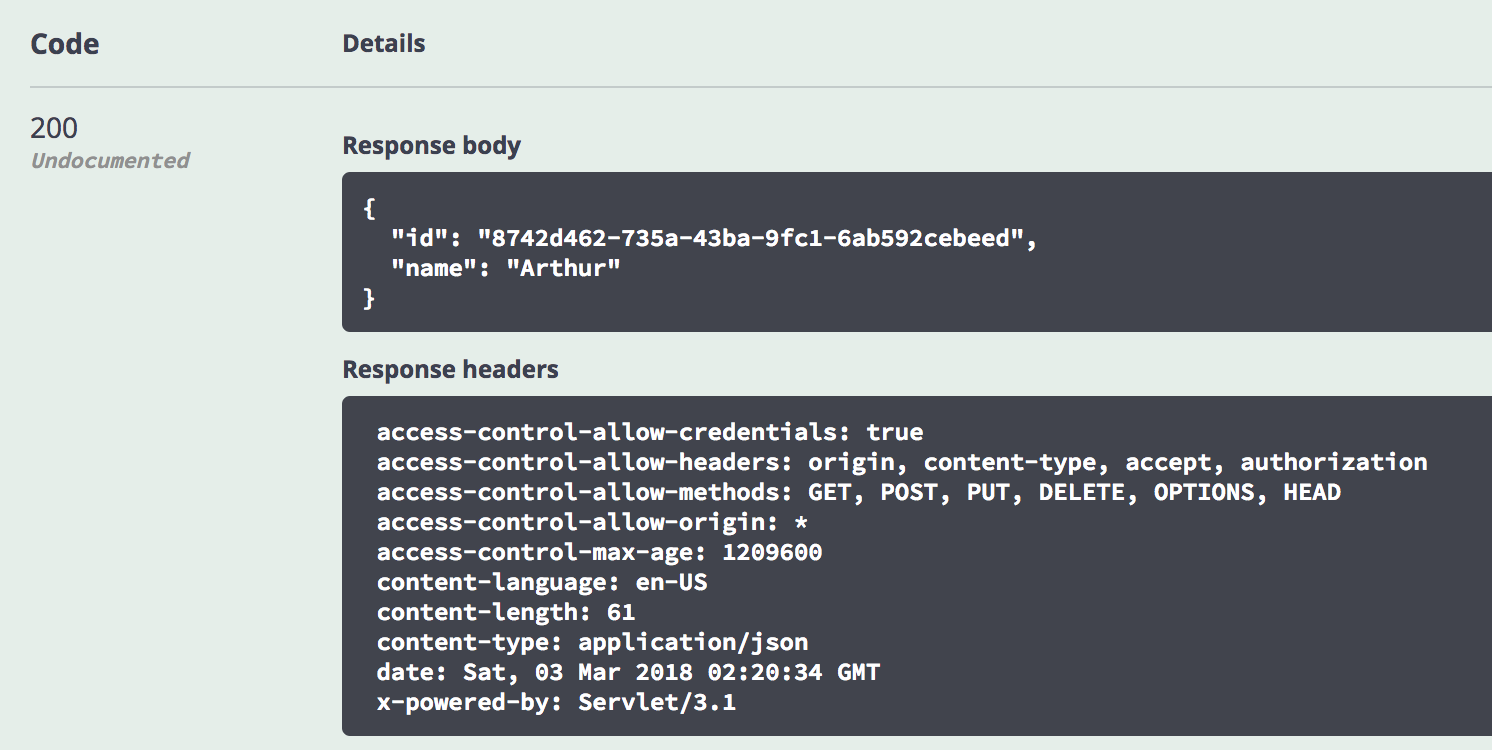
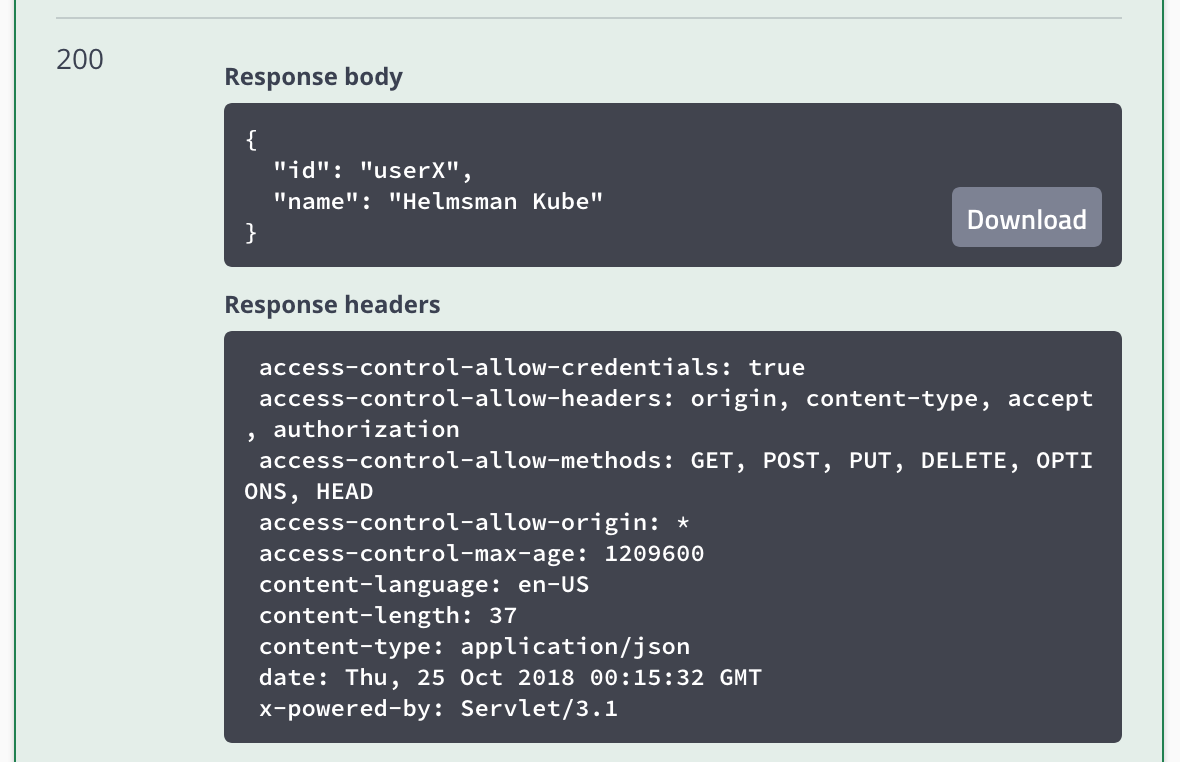
Updated lab for cascon 2018

diff --git a/README.md b/README.md
@@ -1,89 +1,316 @@
 ![Overview](images/top_diagram.png)
 
-# MicroProfile Lab with IBM Cloud Private and WebSphere Liberty
+# MicroProfile Lab with IBM Cloud Private and Open Liberty
 
-This lab illustrates steps to deploy a MicroProfile application, running in a WebSphere Liberty docker container, into a Kubernetes environment, such as [IBM Cloud Private](https://github.com/microservices-api/kubernetes-microprofile-lab#part-2-deploying-a-microprofile-application-in-an-ibm-cloud-private-cluster-icp), and [minikube (bonus)](https://github.com/microservices-api/kubernetes-microprofile-lab/tree/master/minikube).
+This lab illustrates steps to deploy a MicroProfile application, running in a Open Liberty Docker container, into a Kubernetes environment, such as [IBM Cloud Private](https://github.com/microservices-api/kubernetes-microprofile-lab#part-2-deploying-a-microprofile-application-in-an-ibm-cloud-private-cluster-icp), and [minikube (bonus)](https://github.com/microservices-api/kubernetes-microprofile-lab/tree/master/minikube).
 
 If you find an issue with the lab instruction you can [report it](https://github.com/microservices-api/kubernetes-microprofile-lab/issues) or better yet, [submit a PR](https://github.com/microservices-api/kubernetes-microprofile-lab/pulls).
 
-For questions/comments about WebSphere Liberty's docker container or IBM Cloud Private please email [Arthur De Magalhaes](mailto:arthurdm@ca.ibm.com).
+For questions/comments about Open Liberty's Docker container or IBM Cloud Private please email [Arthur De Magalhaes](mailto:arthurdm@ca.ibm.com).
 
 # Before you begin
 
 You'll need a few different artifacts to this lab.  Check if you have these installed by running:
 
 ```
-git --version
-mvn --version
-java -version
-docker --version
-helm version
-minikube version (bonus)
+git --help
+mvn --help
+java -help
+docker --help
+kubectl --help
+helm --help
+cloudctl --help
 ```
 
 If any of these is not installed:
-* Install a [Git client](https://git-scm.com/download/mac).
-* Install [Maven](https://maven.apache.org/download.cgi).
-* Install a [Docker engine](https://docs.docker.com/engine/installation/).
+
+* Install [Git client](https://git-scm.com/download/mac)
+* Install [Maven](https://maven.apache.org/download.cgi)
+* Install [Docker engine](https://docs.docker.com/engine/installation/)
 * Install [Java 8](https://java.com/en/download/)
-* Install [helm](https://docs.helm.sh/using_helm/#installing-helm)
-* Install [minikube](https://kubernetes.io/docs/tasks/tools/install-minikube/) (bonus)
+* Install [kubectl](https://www.ibm.com/support/knowledgecenter/SSBS6K_3.1.0/manage_cluster/cfc_cli.html)
+* Install [helm](https://www.ibm.com/support/knowledgecenter/SSBS6K_3.1.0/app_center/create_helm_cli.html)
+* Install [cloudctl](https://www.ibm.com/support/knowledgecenter/SSBS6K_3.1.0/manage_cluster/install_cli.html)
 
 This lab has been tested on Mac OSX (High Sierra), Ubuntu 16.04 and Windows 10, but it should work with any OS that supports the above software.
 
 # Deploying a MicroProfile application in an IBM Cloud Private cluster (ICP)
 
-This part of the lab will walk you through the deployment of our sample MicroProfile Application into an IBM Cloud Private cluster, which is built on the open source Kubernetes framework. you'll build a MicroProfile application and package it inside a WebSphere Liberty docker container. You will then utilize a helm chart that deploys the Liberty container in ICP, with the appropriate ingress and service setup, while also deploying and configuring a Cloudant helm chart that stands up the database that holds the data for this microservice.
+This part of the lab will walk you through the deployment of our sample MicroProfile Application into an IBM Cloud Private cluster, which is built on the open source Kubernetes framework. You'll build a MicroProfile application and package it inside a Open Liberty Docker container. You will then utilize a Helm chart that deploys the Liberty container in ICP, with the appropriate service setup, while also deploying and configuring a Cloudant Helm chart that stands up the database that holds the data for this microservice.
 
-## Setup a working environment with IBM Cloud Private (ICP)
+## Accessing your cluster from CLI
 
-1. You will be provided with a working ICP.
-1. The `helm` CLI in ICP is protected by TLS, so you need to follow [these instructions](https://www.ibm.com/support/knowledgecenter/en/SSBS6K_2.1.0.3/app_center/create_helm_cli.html) to setup a protected connected between your machine (client) and the ICP cluster you want to reach.
-1. Once the TLS certificates are in place, you can always go into `Configure client` to copy the commands necessary to configure your local CLI to target the ICP cluster:
-![ICP CLI](images/client_config.png)
-1. We will be using the private docker image registry from ICP, so you'll need to [setup the connection](https://www.ibm.com/support/knowledgecenter/en/SSBS6K_2.1.0.3/manage_images/configuring_docker_cli.html) so that you can login into that registry later in the lab.
+In this lab you will use a few command line interfaces (CLIs):
 
-# Part 1A: Build the application and docker container
+* `kubectl` is a powerful tool for running commands against any Kubernetes clusters including ICP.
+* `cloudctl` is a command line tool to interact with IBM Cloud Private.
 
-1. Clone the project into your machine by running `git clone https://github.com/microservices-api/kubernetes-microprofile-lab.git`
-1. Build the sample microservice by running `cd kubernetes-microprofile-lab/lab-artifacts` and then  `mvn clean package`
-1. Build and tag the docker image by using `docker build` and providing a tag that matches your `<cluster_CA_domain>/<namespace>/microservice-vote`.   As an example, if your `<cluster_CA_domain>` is `mycluster.icp` and you used the `default` namespace, then your command would be `docker build -t mycluster.icp:8500/default/microservice-vote`.
+To access your cluster using these tools, you need to log in to your cluster. Once you are logged in, a protected connection between your machine (client) and the ICP cluster you want to reach will be set up.
 
-# Part 1B: Upload the docker image to IBM Cloud Private's docker registry
+1. From desktop, open MATE Terminal.
+1. Log in to your cluster:
+    ```bash
+    cloudctl login -a https://mycluster.icp:8443 -c id-mycluster-account --skip-ssl-validation
+    ```
+    Your machine is setup to resolve `mycluster.icp` into the ip address of the master node of a shared ICP cluster.
+1. Enter the credentials provided to you.
+1. Pick the namespace that is same as your username.
+1. Once you are successfully logged in, you should see the following message:
+    ```bash
+    Configuring kubectl ...
+    Property "clusters.mycluster" unset.
+    Property "users.mycluster-user" unset.
+    Property "contexts.mycluster-context" unset.
+    Cluster "mycluster" set.
+    User "mycluster-user" set.
+    Context "mycluster-context" created.
+    Switched to context "mycluster-context".
+    OK
 
-We will use IBM Cloud Private's internal docker registry to host our docker image.  This allows our image to remain secured on-premises, while being available to your enterprise.  You can control which kubernetes namespace they are available under.
+    Configuring helm: /home/student/.helm
+    OK
+    ```
+1. You can now explore `kubectl` and `cloudctl` CLIs.
+1. Run the following commands to get familiar with these tools:
+    1. `kubectl version`: Print the client and server version information.
+    1. `kubectl cluster-info`: Display cluster info.
+    1. `kubectl config view`: Display merged kubeconfig settings.
+    1. `kubectl help`: Get help!
+    1. `cloudctl version`: Check CLI and API version information.
+    1. `cloudctl cm nodes`: List of all nodes in the cluster.
+    1. `cloudctl cm masters`: List of all master nodes.
+    1. `cloudctl cm master-get <MASTER_NODE_ID>`: View the details about a master node.
+    1. `cloudctl catalog charts`: List of Helm charts in the cluster helm repositories. Soon, you'll learn about Helm charts!
+    1. `cloudctl help`: Get help!
+1. Congratulations!
 
-1. Follow the instruction on [this page](https://www.ibm.com/support/knowledgecenter/en/SSBS6K_2.1.0.3/manage_images/using_docker_cli.html) to `docker login` into the ICP docker registry.  Use the credentials you setup during installation (default is `admin/admin`).
-1. Now that you're logged in the registry, you can `docker push` your tagged image (`microservice-vote`) into the ICP docker registry.  Example:  `docker push mycluster.icp:8500/default/microservice-vote`
-1. Your image is now available in the ICP registry, which you can verify by going into `Catalog -> Images`.   
-![Images Repository](images/images_repo.png)
+## Accessing your IBM Cloud Private cluster by using the management console
 
-# Part 2: Deploy WebSphere Liberty and Cloudant helm chart
+You can access your IBM Cloud Private cluster management console from a web browser.
 
-1. Deploy the microservice with the following helm install command `helm install --name=vote helm-chart/microservice-vote --set image.repository=mycluster.icp:8500/default/microservice-vote`.
-1. You can view the status of your deployment by running `kubectl get deployments`.  You want to wait until both `microservice-vote-deployment` and `vote-ibm-cloudant-dev` deployments are available.
-1. Let's check on our deployment.  Go into `Workloads -> Deployments` and click on the release name you picked.  Click on the `Endpoint` link, which brings up the ingress URL.   Add `/openapi/ui` to the URL to reach the OpenAPI User Interface.   For example, `https://192.168.99.100/openapi/ui`.
-1. Congratulations, you have successfully deployed a [MicroProfile](http://microprofile.io/) container into a kubernetes cluster!  The deployment also included a Cloudant container that is used by our microservice, and an ingress layer to provide connectivity into the API.
+1. From a web browser, browse to the URL for your cluster. The URL is `https://mycluster.icp:8443`.
+1. Enter the credentials provided to you.
+1. From the top horizontal menu bar, click Catalog.
+1. The Catalog provides a centralized location from which you can browse for and install Helm charts in your cluster. A chart consists of templates for a set of resources necessary to run an application and includes a values file that configures the resources.
+1. From the top left main Menu, click on **Workloads** and then **Helm Releases**.
+1. You can see the list of all Helm releases deployed into the cluster. Many of the deployments are internal resources required by ICP itself.
+
+# Part 1A: Build the application and Docker container
+
+## Vote Microservice
+
+The vote microservice stores feedback from the sessions and displays how well all sessions were liked in a pie chart.  If the vote service is configured (via server.xml) to connect to a CouchDB database, the votes will be persisted.  Otherwise, the vote data will simply be stored in-memory. This sample application is one of the MicroProfile [showcase](https://github.com/eclipse/microprofile-conference/tree/master/microservice-vote) applications.
+
+You can clone the lab artifacts and explore the application:
+
+1. Clone the project into your machine:
+    ```bash
+    git clone https://github.com/microservices-api/kubernetes-microprofile-lab.git
+    ```
+1. Navigate into the sample application directory:
+    ```bash
+    cd kubernetes-microprofile-lab/lab-artifacts
+    ```
+1. See if you can find where technologies described below are used in the application.
+
+### Usage of technologies
+
+* **JAX-RS** is used to to define the endpoints for the application, and performs JSON data binding on incoming and outgoing JSON data so that the rest of the code can utilize the data as POJOs.
+
+* **CDI** is used to instantiate data access objects (DAO's) and manage invocation of life cycle operations such as `@PostConstricut`.
+
+* **JSON-P** is used to implement custom JAX-RS MessageBodyReader/Writer classes for binding between JSON and POJO.
+
+* **MicroProfile Config** is used to inject CouchDB's URL, username and password to the application.
+
+* **MicroProfile Fault-Tolerance** is used in the CouchAttendeeDAO and CouchSessionRatingDAO to:
+
+  * impose timeouts on various operations using `@Timeout`.
+  * automatically retry failed operations using `@Retry`.
+  * limit the maximum resources allocated to parallel operations using `@Bulkhead`.
+
+* **MicroProfile Health** is used to provide an UP/DOWN health check of the service.  The following health checks are implemented:
+
+  * HashMapDAO to determine if the in-memory storage is accessible (which is always) and gives an example of an UP status.
+  * CouchAttendeeDAO to determine if it can connect to the CouchDB backend.
+  * CouchSessionDAO to determine if it can connect to the CouchDB backend.
+
+* **CouchDB** is a NoSQL database.  It's not part of MicroProfile, but is used here to persist vote information
+
+* **MicroProfile Metrics** is used to gather metrics about the time it takes the HashMapDAO objects to complete their operations, and to keep a count of the amount of times each REST endpoint is requested.
+
+## Dockerizing Vote Microservice
+
+By now you should have a general understanding about the applications. Now you will see how you can package the sample application into a Docker container.
+
+The application is packaged as a Docker image, using a Dockerfile that contains instructions on how the image is built.
+
+**Dockerfile**
+
+```docker
+FROM open-liberty:microProfile1
+COPY server.xml /config/server.xml
+COPY target/microservice-vote-1.0.0-SNAPSHOT.war /config/apps/vote.war
+```
+
+This Dockerfile describes that our container is built on top of `open-liberty:microProfile1` Docker image and includes our applications along with the server.xml needed to run the app.
+
+The following steps will build the sample application and create a docker image that includes the vote microservice:
+
+1. Clone the project into your machine. You can skip this step if you have already cloned the repository.
+    ```bash
+    git clone https://github.com/microservices-api/kubernetes-microprofile-lab.git
+    ```
+1. Navigate into the sample application directory:
+    ```bash
+    cd kubernetes-microprofile-lab/lab-artifacts
+    ```
+1. Build the sample application:
+    ```bash
+    mvn clean package
+    ```
+1. Build and tag the Docker image:
+    ```bash
+    docker build -t mycluster.icp:8500/<NAMESPACE>/microservice-vote .
+    ```
+    Replace `<NAMESPACE>` with your username. As an example:
+    ```bash
+    docker build -t mycluster.icp:8500/userX/microservice-vote .
+    ```
+1. You can use the Docker CLI to verify that your image is built:
+    ```bash
+    docker images
+    ```
+
+# Part 1B: Upload the Docker image to IBM Cloud Private's Docker registry
+
+We will use IBM Cloud Private's internal Docker registry to host our image.  This allows our image to remain secured on-premises, while being available to your enterprise.  You can control which Kubernetes namespace they are available under.
+
+1. Log in to your private image registry using the provided credentials:
+    ```bash
+    docker login mycluster.icp:8500
+    ```
+1. Now that you're logged in the registry, you can `docker push` your tagged image (`microservice-vote`) into the ICP Docker registry:
+    ```bash
+    docker push mycluster.icp:8500/<NAMESPACE>/microservice-vote
+    ```
+1. Your image is now available in the Docker registry in ICP. You can verify this through the management console: `Console -> Container Images`.
+
+    ![Images Repository](images/images_repo.png)
+
+# Part 2: Deploy Open Liberty and Cloudant Helm charts
+
+You can use ICP Dashboard to deploy Helm charts into your Kubernetes cluster through the Catalog page. In addition, you can use Helm command line tool to install a Helm chart which we will do in this part of the lab.
+
+First, let's see what are Helm charts. Helm is a package manager for Kubernetes (analogous to yum and apt). You can use it for managing Kubernetes charts (analogous to debs and rpms), which are packages of pre-configured Kubernetes resources. Instead of running a bunch of commands or maintaining multiple configuration files to create Kubernetes resources, Helm packages all the resources required to successfully run a service or multiple dependent services in one chart.
+
+Now let's deploy our workload using Helm charts:
+
+1. Deploy the microservice using Helm:
+    ```bash
+    helm install --name=vote-<USERNAME> helm-chart/microservice-vote --set image.repository=mycluster.icp:8500/<NAMESPACE>/microservice-vote --tls
+    ```
+1. You can view the status of your deployment:
+    ```bash
+    kubectl get deployments
+    ```
+    You want to wait until both `microservice-vote-deployment` and `vote-<NAMESPACE>-ibm-cloudant-dev` deployments are available.
+1. Let's check on our deployment in the ICP dashboard. From the management console, go into `Workloads -> Deployments`.
+1. Click on the Namespace menu on the top right of the page.
+1. Select the namespace that is same as your username.
+1. You should see two deployments: `microservice-vote-deployment` and `vote-<NAMESPACE>-ibm-cloudant-dev`
+1. Feel free to click on any of the deployments and see details about each deployments.
+1. Now lets see what Kubernetes resources this Helm chart created in addition to Deployment resources. From the management console, go into `Workloads -> Helm Releases`.
+1. Click on your Helm release name. You can use the search box to find it.
+1. Release page shows all the Kubernetes resources create on the cluster.
+1. See that there are two resources created under **Service**.
+1. Click on `microservice-vote-service`. This would take to to another page.
+1. You should see two links for **Node port**, `http` and `https`. Click on either link.
+1. You should see the Open Liberty Welcome Page.
+1. Add `/openapi/ui` to the URL to reach the OpenAPI User Interface. For example, `https://<IP>:<PORT>/openapi/ui`.
+1. Congratulations! You have successfully deployed a [MicroProfile](http://microprofile.io/) container into a Kubernetes cluster!
 
 # Part 3: Explore the application
 
-The `vote` application is using various MicroProfile specifications.  The `/openapi` endpoint of the application exposes the [MicroProfile OpenAPI](http://download.eclipse.org/microprofile/microprofile-open-api-1.0.1/microprofile-openapi-spec.html) specification.  The `/openapi/ui` endpoint is a value-add from [Open Liberty](https://openliberty.io/), which WebSphere Liberty is based upon.  This UI allows developers and API consumers to invoke the API right from the browser!
+The `vote` application is using various MicroProfile specifications.  The `/openapi` endpoint of the application exposes the [MicroProfile OpenAPI](http://download.eclipse.org/microprofile/microprofile-open-api-1.0.1/microprofile-openapi-spec.html) specification.  The `/openapi/ui` endpoint is a value-add from [Open Liberty](https://openliberty.io/).  This UI allows developers and API consumers to invoke the API right from the browser!
 
 1. Expand the `POST /attendee` endpoint and click the `Try it out` button.
-1. Leave the `id` empty, and place your name in the `name` field.
-![image](images/post_screenshot.png)
-1. Click on the `execute` button.  Scroll down and you'll see the `curl` command that was used, the `Requested URL` and then details of the response.  Copy the `id` from the `Response body`.  This entry has now been saved into the Cloudant database that our microservice is using.
-![image](images/post_result.png) 
+1. Place your username (e.g. userX) in the `id` field, and place your name in the `name` field.
+    ![image](images/post_screenshot.png)
+1. Click on the `Execute` button.  Scroll down and you'll see the `curl` command that was used, the `Requested URL` and then details of the response.  Copy the `id` from the `Response body`.  This entry has now been saved into the Cloudant database that our microservice is using.
+    ![image](images/post_result.png)
 1. Now expand the `GET /attendee/{id}`, click the `Try it out` button, and paste into the textbox the `id` you copied from the previous step.
-1. Click on `execute` and inspect that the `Respond body` contains the same name that you created 2 steps ago. You successfully triggered a fetch from our WebSphere Liberty microservice into the Cloudant database.
+1. Click on `Execute` and inspect that the `Respond body` contains the same name that you created 2 steps ago. You successfully triggered a fetch from our Open Liberty microservice into the Cloudant database.
 1. Feel free to explore the other APIs and play around with the microservice!
+
+# Part 4: Update the Helm release
+
+In this part of the lab you will practice how to make changes to the Helm release you just deployed on the cluster using the Helm CLI.
+
+So far, the database you deployed stores the data inside the container running the database. This means if the container gets deleted or restart for any reason, all the data stored in the database would be lost.
+
+In order to store the data outside of the database container, you would need enable data persistence through the Helm chart. When you enable persistence, the database would store the data in a PersistentVolume. A PersistentVolume (PV) is a piece of storage in the cluster that has been provisioned by an administrator or by a automatic provisioner.
+
+The steps below would guide you how to enable persistence for your database:
+
+1. If you did [Part 3](#Part-3-Explore-the-application), you should have seen that calling `GET /attendee/{id}` should have returned the `name` you specified. Calling `GET` would read the data from the database.
+1. Find the pod name running the database container. You should see a pod name similar to `vote-<NAMESPACE>-ibm-cloudant-dev-84489f78cb-h78dx`.
+    ```bash
+    kubectl get pods --namespace <NAMESPACE>
+    ```
+1. Delete the Cloudant pod. Replace `<POD_NAME>` with the pod name from the previous step:
+    ```bash
+    kubectl delete pod <POD_NAME> --namespace default
+    ```
+1. Call the `GET /attendee` endpoint again and see that the server does not return any attendee from the database.
+1. Navigate into the sample application directory:
+    ```bash
+    cd kubernetes-microprofile-lab/lab-artifacts
+    ```
+1. Now let's enable persistence for our database pod
+    ```bash
+    helm upgrade vote-<USERNAME> helm-chart/microservice-vote --set ibm-cloudant-dev.persistence.enabled=true --set image.repository=mycluster.icp:8500/<NAMESPACE>/microservice-vote --tls
+    ```
+1. List the deployed packages with their chart versions by running:
+    ```bash
+    helm ls --namespace <NAMESPACE> --tls
+    ```
+    You can see that the number of revisions should be 2 now.
+1. Run the following command to see the state of deployments:
+    ```bash
+    kubectl get deployments --namespace <NAMESPACE>
+    ```
+    You should get an output similar to the following:
+    ```bash
+    NAME                            DESIRED   CURRENT   UP-TO-DATE   AVAILABLE   AGE
+    microservice-vote-deployment    1         1         1            1           8h
+    vote-userX-ibm-cloudant-dev     1         1         1            1           8h
+    ```
+    You might need to wait until the database deployments are all ready.
+1. Now repeat [Part 3](#Part-3-Explore-the-application) to add a new attendee.
+1. Now repeat Steps 1-4 in this part to see that even though you delete the database container, data still gets recovered from the PersistentVolume.
+
+## Further reading
+
+* [Kubernetes Basics](https://kubernetes.io/docs/tutorials/kubernetes-basics/)
+* [IBM Cloud Private: Deploying Microservices with Kubernetes](https://www.coursera.org/learn/deploy-micro-kube-icp)
+* [Helm - Quickstart Guide](https://docs.helm.sh/using_helm/#quickstart)
 
 ## Stay in sync
 
-1.  Join the ICP [technical community](https://www.ibm.com/developerworks/community/wikis/home?lang=en#!/wiki/W1559b1be149d_43b0_881e_9783f38faaff) to stay up to date with news related to IBM Cloud Private.
+Join the ICP [technical community](https://www.ibm.com/developerworks/community/wikis/home?lang=en#!/wiki/W1559b1be149d_43b0_881e_9783f38faaff) to stay up to date with news related to IBM Cloud Private.
 
 # [Bonus: Deploying a MicroProfile application in a minikube cluster](minikube/README.md)
 
- In the bonus section you'll build a MicroProfile application and package it inside a WebSphere Liberty docker container. You will then utilize a helm chart that deploys the Liberty container into a kubernetes cluster (minikube), with the appropriate ingress and service setup, while also deploying and configuring a Cloudant helm chart that stands up the database that holds the data for this microservice.  
+ In the bonus section you'll build a MicroProfile application and package it inside a Open Liberty Docker container. You will then utilize a helm chart that deploys the Liberty container into a Kubernetes cluster (minikube), with the appropriate ingress and service setup, while also deploying and configuring a Cloudant Helm chart that stands up the database that holds the data for this microservice.  
 
- We will walk you through the deployment of our sample MicroProfile Application into a minikube. You'll notice that we're using the exact same artifacts (helm charts & docker containers) as the steps for ICP. However, minikube is the simplest way for a developer to get a kubernetes cluster up and running locally in their laptop.
+ We will walk you through the deployment of our sample MicroProfile Application into a minikube. You'll notice that we're using the exact same artifacts (Helm charts & Docker containers) as the steps for ICP. However, minikube is the simplest way for a developer to get a Kubernetes cluster up and running locally in their laptop.
+
+# Shared Cluster
+
+Here are some details about the shared cluster used during CASCON 2018 workshop:
+
+* IBM Cloud Private 3.1.0 is installed on the cluster
+* The cluster has one master node and one worker node.
+* An LDAP server was setup to manage user access.
+* [NFS client provisioner](https://github.com/helm/charts/tree/master/stable/nfs-client-provisioner) Helm chart is installed on the cluster. The NFS client provisioner is an automatic provisioner for Kubernetes that uses your already configured NFS server, automatically creating Persistent Volumes.
